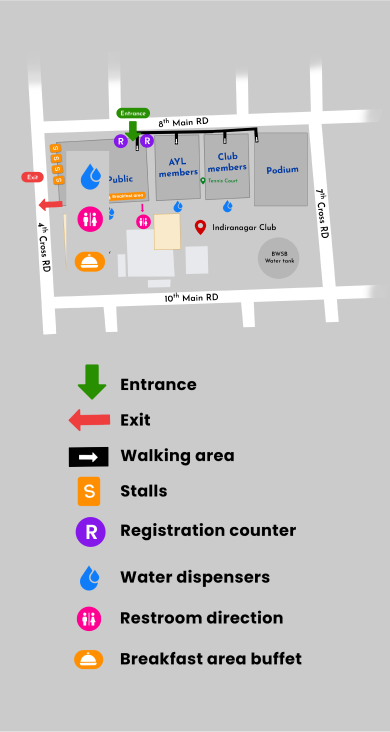
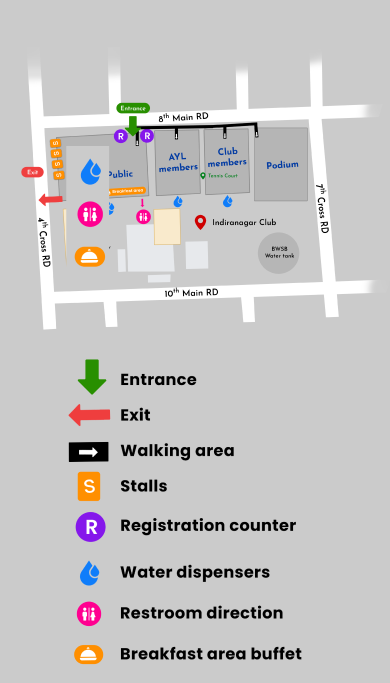
Fixed issues

diff --git a/pages/yoga-arambha/index.js b/pages/yoga-arambha/index.js
@@ -167,7 +167,7 @@ function YogaArambha() {
           { time: '8:00 onwards', event: ' Breakfast' }
      ];
 
-     const isMobile = useMediaQuery({ query: '(max-width: 390px)' });
+     const isMobile = useMediaQuery({ query: '(max-width: 490px)' });
      const isTabletOrMobile = useMediaQuery({ query: '(max-width: 700px)' });
 
      return (
@@ -483,7 +483,7 @@ function YogaArambha() {
                          </Flex>
                     </Flex>
 
-                    <Flex name="about" p={{ base: 5, md: 0 }} flexDirection="column" justfifyContent="center" gap={{ base: '10px', md: '20px' }} alignItems="center" width="100%" marginTop="95px">
+                    <Flex name="about" p={{ base: 5, md: 0 }} flexDirection="column" justfifyContent="center" gap={{ base: '10px', md: '20px' }} alignItems="center" width="100%" marginTop={{base:"10px",md:"30px",lg:"95px"}}>
                          <Text
                               fontSize={{
                                    base: '32px',
@@ -791,8 +791,8 @@ function YogaArambha() {
                                    Register Now Free & For Everyone
                               </PinkButton>
                          </Flex>
-                         <Box bg="#CBCBCB" padding="40px" marginTop={{ base: '45px', lg: '62px' }}>
-                              <Text fontSize={{ base: '26px', md: '36px', lg: '46px' }} fontWeight="700" textAlign="center">
+                         <Flex flexDirection='column' bg="#CBCBCB" padding={{sm:"40px",md:"40px"}} marginTop={{ base: '45px', lg: '62px' }}>
+                              <Text pt={{base:'20px',md:0}} fontSize={{ base: '26px', md: '36px', lg: '46px' }} fontWeight="700" textAlign="center">
                                    Map View
                               </Text>
                               {isMobile ? (
@@ -803,7 +803,7 @@ function YogaArambha() {
                                         <Image placeholder="blur" src={MapRight} />
                                    </Flex>
                               )}
-                         </Box>
+                         </Flex>
 
                          <PinkButton
                               margin="0 auto"
